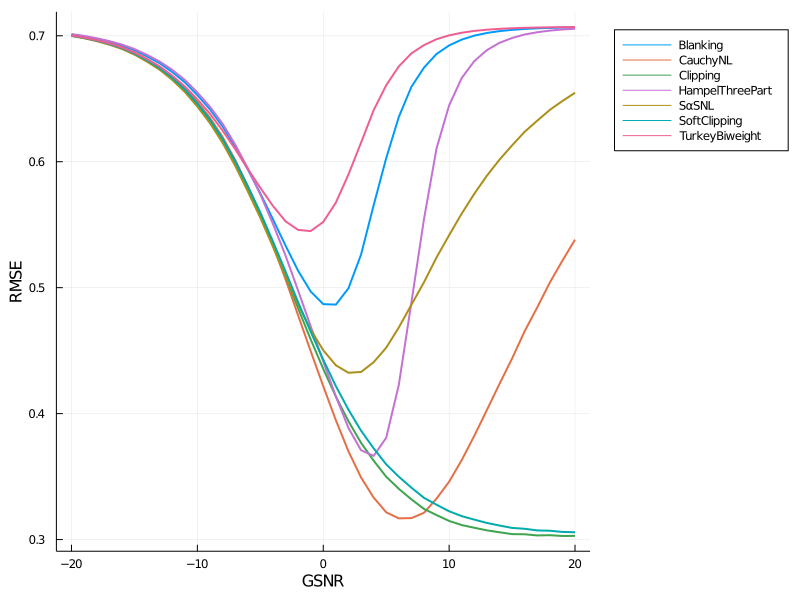
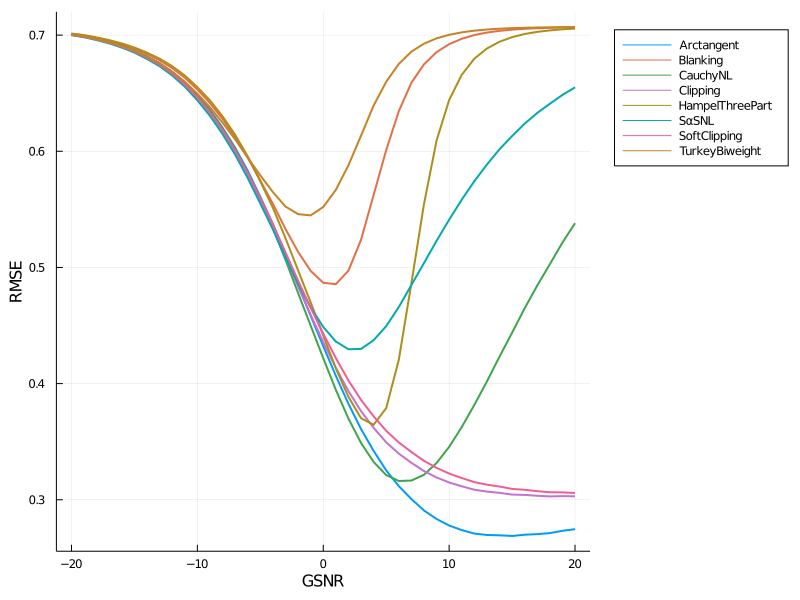
feat(*): add arctangent

diff --git a/README.md b/README.md
@@ -24,6 +24,14 @@ function plotnonlinearity(x, f, params; size=(800, 600))
 end
 ```
 
+### Arctangent
+![window](images/arctangent-eqn.png)
+```julia
+αs = 1:1:10
+plotnonlinearity(x, Arctangent, αs)
+```
+![window](images/arctangent.png)
+
 ### Blanking 
 ![window](images/blanking-eqn.png)
 ```julia
@@ -85,11 +93,13 @@ plotnonlinearity(x, TurkeyBiweight, ks)
 Chirp signals with Symmetric α-Stable noise parameterized by α=1.5, scale=1.0, location=0.0 were simulated. The following nonlinear functions were applied to the simulated data to filter the noise.
 | Nonlinear       | Parameter                 |
 | --------------- | ------------------------- |
+| Arctangent      | σ=1 
 | Blanking        | k=3σ                      |
 | CauchyNL        | k=3σ                      |
 | Clipping        | k=σ                       |
 | HampelThreePart | a=3σ,b=4σ,c=5σ            |
 | SαSNL           | α=α',scale=c',location=δ' |
+| SoftClipping    | k=σ                       |
 | TurkeyBiweight  | k=3σ                      |
 
 σ is median absolution deviation of the simulated data. a', c' and δ' are the estimated pararamters of IID Symmetric α-Stable distributions based on the simulated data. Root Mean Squared Errors (RMSEs) between the true chirp signals and filtered signals with respect to nonlinear functions and Generalizad Signal-to-Noise Ratios (GSNRs) are as follows. 
